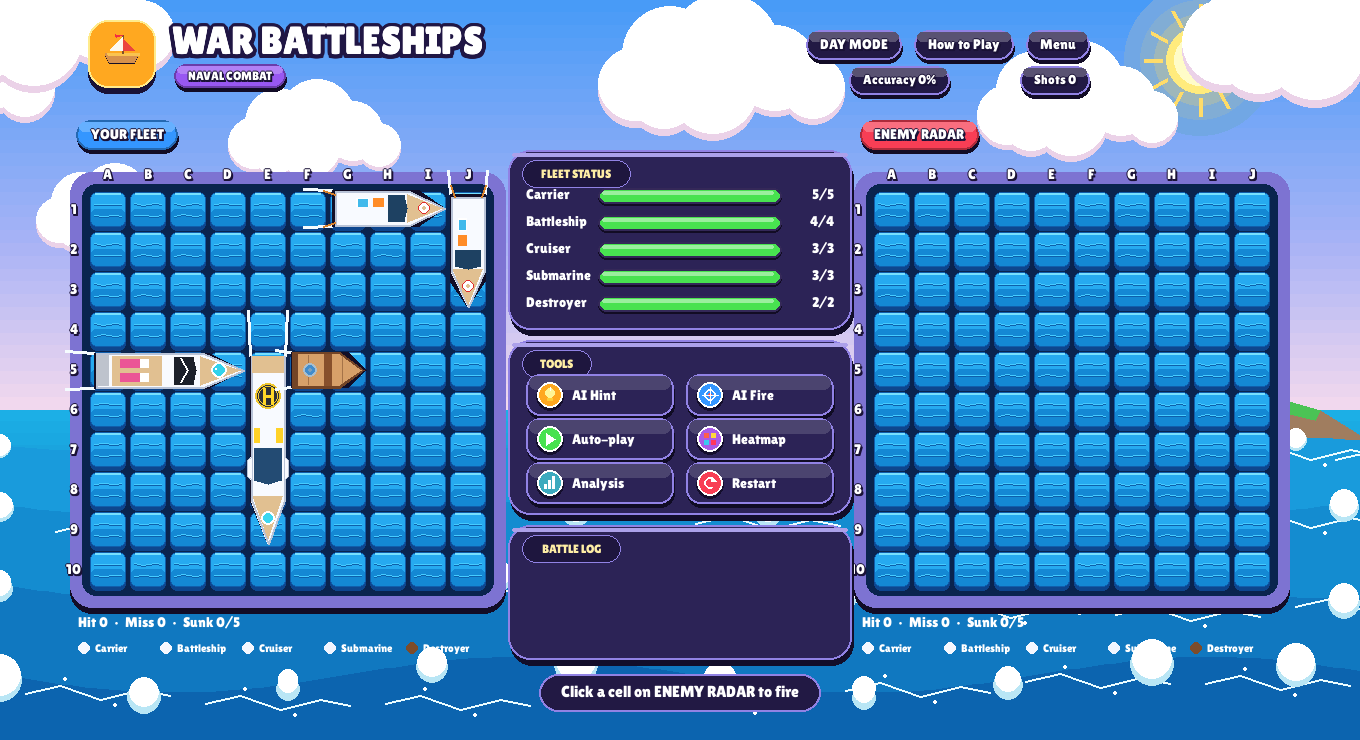
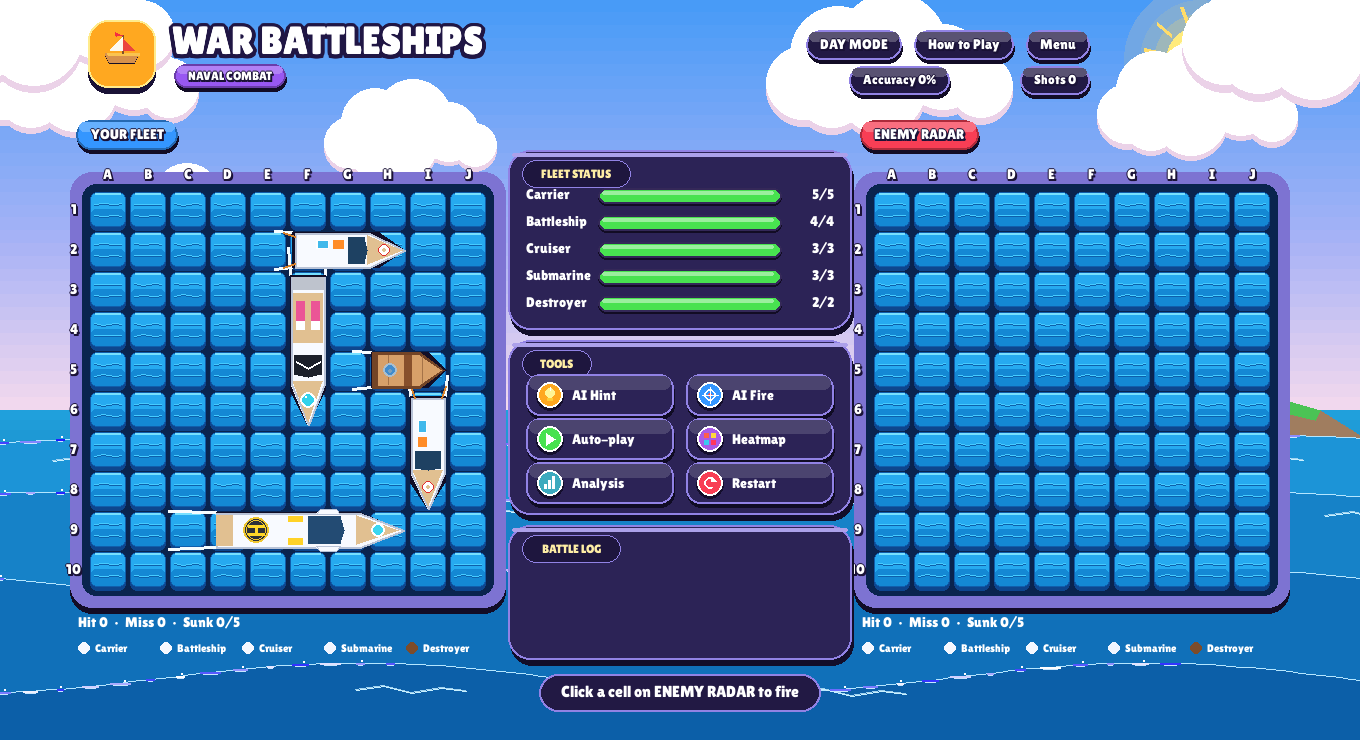
feat: realistic ocean waves - no puffy egg circles, whitecap streaks + ripple lines

diff --git a/ui/sprites.py b/ui/sprites.py
@@ -159,43 +159,56 @@ def wave_points(x0, x1, base, amp, length, speed, t, step=22):
     return pts
 
 
-def draw_puffy_wave_crest(screen, pts, t, sc=1.0, step=12):
-    """Draw cloud-like puffy white wave foam crests along wave points, matching reference image."""
-    # 1. Soft mint-aqua bottom shadow billows
-    for i in range(0, len(pts), step):
+def _draw_wave_whitecap(screen, pts, t, phase_offset=0.0, opacity_sc=1.0):
+    """Draw realistic whitecap foam streaks along a wave crest — no big circles.
+    Uses short tapered brushstroke lines and tiny spray dots."""
+    n = len(pts)
+    rng_seed = int(phase_offset * 100)
+    for i in range(0, n - 1, 3):
         px, py = pts[i]
-        r = int((13 + 4 * math.sin(i * 0.4 + t * 3)) * sc)
-        pygame.draw.circle(screen, (185, 230, 245), P(px, py + 4 * sc), r)
-    # 2. Main brilliant white foam billows
-    for i in range(0, len(pts), step):
-        px, py = pts[i]
-        r = int((12 + 4 * math.sin(i * 0.4 + t * 3)) * sc)
-        pygame.draw.circle(screen, (255, 255, 255), P(px, py), r)
-    # 3. Bright top highlight puffs
-    for i in range(0, len(pts), step * 2):
-        px, py = pts[i]
-        r = int((7 + 3 * math.sin(i * 0.8 + t * 4)) * sc)
-        pygame.draw.circle(screen, (255, 255, 255), P(px, py - 3 * sc), r)
+        # Only paint caps where wave is near its crest (derivative ~0)
+        if i + 2 < n:
+            dy_prev = pts[max(0, i-2)][1] - py
+            if dy_prev < -0.5:   # skip troughs
+                continue
+        # Foam streak length varies
+        streak = int(14 + 8 * math.sin(i * 0.6 + t * 3.1 + phase_offset))
+        alpha = int(255 * min(1.0, opacity_sc * (0.6 + 0.4 * math.sin(i * 1.3 + t * 2))))
+        col = (min(255, alpha), min(255, alpha), 255)
+        # Main horizontal foam streak
+        pygame.draw.line(screen, col,
+                         P(px - streak // 2, py),
+                         P(px + streak // 2, py), 2)
+        # Thinner trailing wisp below
+        pygame.draw.line(screen, (200, 230, 255),
+                         P(px - streak // 3, py + 2),
+                         P(px + streak // 3, py + 2), 1)
+        # Tiny spray dots
+        if i % 6 == 0:
+            sr = max(1, int(1.5 * opacity_sc))
+            pygame.draw.circle(screen, (255, 255, 255),
+                                P(px + streak // 4, py - 2), sr)
 
 
 def draw_seafoam_swirls(screen, x0, x1, y_base, t, phase=0.0):
-    """Draw curved seafoam lace ribbons across the wave surface, matching reference image."""
-    swirl_col = (235, 252, 255)
-    width = x1 - x0
-    count = max(2, int(width // 160))
-    for s_i in range(count):
-        sx = x0 + ((s_i * 180 + t * 25 + phase * 60) % max(1, width))
-        sy = y_base + math.sin(t * 2 + s_i + phase) * 12
+    """Draw subtle horizontal water ripple lines (not circles)."""
+    swirl_col = (200, 240, 255)
+    dim_col   = (160, 210, 240)
+    width = int(x1 - x0)
+    for s_i in range(3):
+        ox = (s_i * 220 + t * 28 + phase * 55) % max(1, width)
+        sx = x0 + ox
+        sy = y_base + math.sin(t * 1.8 + s_i * 1.2 + phase) * 6
         pts = [
-            P(sx, sy),
-            P(sx + 35, sy - 8),
-            P(sx + 75, sy + 6),
-            P(sx + 115, sy - 4),
-            P(sx + 145, sy + 2)
+            P(sx,       sy),
+            P(sx + 28,  sy - 4),
+            P(sx + 55,  sy + 3),
+            P(sx + 85,  sy - 2),
+            P(sx + 110, sy + 1)
         ]
-        pygame.draw.lines(screen, swirl_col, False, pts, 2)
-        pygame.draw.circle(screen, (255, 255, 255), P(sx + 40, sy - 14), 2)
-        pygame.draw.circle(screen, (255, 255, 255), P(sx + 90, sy + 12), 2)
+        pygame.draw.lines(screen, dim_col, False, pts, 1)
+        pts2 = [P(x + 1, y + 1) for x, y in pts]
+        pygame.draw.lines(screen, swirl_col, False, pts2, 1)
 
 
 def draw_adventure_sailboat(g, cx, cy, sc=1.0, t=0.0, bob=True):
@@ -289,20 +302,22 @@ def draw_adventure_sailboat(g, cx, cy, sc=1.0, t=0.0, bob=True):
 
 
 def draw_sea(g, t):
-    """Stylized cartoon ocean with dramatic volumetric puffy foam waves,
-    swirling seafoam lace, and adventure sailboat matching the user's reference image."""
+    """Realistic ocean background with multi-layer rolling waves,
+    subtle whitecap foam streaks, and deep blue-to-teal gradient."""
     screen = g.screen
 
-    # 1. Base Ocean Gradient (Cerulean horizon -> Deep Royal Ocean)
-    bands = 28
+    # 1. Deep Ocean Gradient — dark navy at bottom, lighter teal near horizon
+    bands = 32
     for i in range(bands):
         y0 = HORIZON + i * (H - HORIZON) // bands
         frac = i / bands
-        c = mix((28, 175, 230), (10, 80, 160), frac)
-        pygame.draw.rect(screen, mix(c, (14, 28, 65), g.tod * 0.7),
-                         pygame.Rect(0, y0, W, (H - HORIZON) // bands + 2))
+        # Day: teal-blue gradient / Night: deep navy
+        c_day  = mix((32, 160, 220), (8, 48, 110), frac)
+        c_night = mix((10, 30, 72), (4, 12, 38), frac)
+        c = mix(c_day, c_night, g.tod * 0.85)
+        pygame.draw.rect(screen, c, pygame.Rect(0, y0, W, (H - HORIZON) // bands + 2))
 
-    # 2. Distant Tropical Cliff & Fairytale Tower on Right Horizon (matching reference!)
+    # 2. Distant Tropical Cliff & Fairytale Tower
     cliff_x = W - 220
     cliff_y = HORIZON + 15
     cliff_pts = [
@@ -310,8 +325,9 @@ def draw_sea(g, t):
         P(cliff_x + 110, cliff_y - 35), P(cliff_x + 180, cliff_y - 15),
         P(W, cliff_y + 10), P(W, cliff_y + 90), P(cliff_x, cliff_y + 90)
     ]
-    pygame.draw.polygon(screen, (160, 125, 95), cliff_pts)
-    pygame.draw.polygon(screen, (75, 195, 85), [
+    cliff_col = mix((160, 125, 95), (60, 50, 42), g.tod * 0.5)
+    pygame.draw.polygon(screen, cliff_col, cliff_pts)
+    pygame.draw.polygon(screen, mix((75, 195, 85), (25, 60, 35), g.tod * 0.6), [
         P(cliff_x + 35, cliff_y - 20), P(cliff_x + 110, cliff_y - 35),
         P(cliff_x + 180, cliff_y - 15), P(cliff_x + 175, cliff_y - 5),
         P(cliff_x + 105, cliff_y - 22), P(cliff_x + 40, cliff_y - 12)
@@ -332,50 +348,72 @@ def draw_sea(g, t):
             P(fx - f["sz"] * 0.7, fy), P(fx, fy + f["sz"] * 0.45)
         ])
 
-    # 4. Multi-Layer Rolling Oceanic Waves with Volumetric Puffy Foam Crests
+    # 4. Multi-layer realistic rolling waves — no big foam circles
     wave_layers = [
-        (HORIZON + 35, 7.0, 75, 1.2, (25, 155, 220), 0.7, 18),
-        (HORIZON + 95, 10.0, 85, 1.4, (20, 140, 208), 0.9, 16),
-        (HORIZON + 175, 14.0, 95, 1.6, (16, 120, 192), 1.15, 14),
-        (HORIZON + 265, 18.0, 110, 1.9, (12, 100, 175), 1.35, 12),
+        # (base_y, amp, period, speed, wave_col, whitecap_opacity, step)
+        (HORIZON + 30,  5.0,  85, 1.1,  (28, 148, 215),  0.55, 15),
+        (HORIZON + 90,  8.0,  95, 1.3,  (22, 130, 200),  0.70, 14),
+        (HORIZON + 170, 11.0, 108, 1.55, (16, 112, 185),  0.85, 13),
+        (HORIZON + 268, 15.0, 125, 1.80, (12, 95,  168),  1.00, 12),
     ]
 
-    for base_y, amp, period, speed, wave_col, foam_sc, step in wave_layers:
-        pts = wave_points(0, W, base_y, amp, period, speed, t, step=12)
+    for base_y, amp, period, speed, wave_col, foam_op, step in wave_layers:
+        wc = mix(wave_col, g.col("sea2"), g.tod * 0.65)
+        pts = wave_points(0, W, base_y, amp, period, speed, t, step=10)
         poly = pts + [(W, H), (0, H)]
-        pygame.draw.polygon(screen, mix(wave_col, g.col("sea2"), g.tod * 0.7), [P(x, y) for x, y in poly])
-        draw_seafoam_swirls(screen, 0, W, base_y + 18, t, phase=base_y * 0.05)
-        draw_puffy_wave_crest(screen, pts, t + base_y * 0.1, sc=foam_sc, step=step)
+        pygame.draw.polygon(screen, wc, [P(x, y) for x, y in poly])
+
+        # Subtle horizontal shimmer line along wave crest
+        shimmer = mix((180, 230, 255), (80, 140, 200), g.tod * 0.7)
+        pygame.draw.lines(screen, shimmer, False, [P(x, y) for x, y in pts], 1)
+
+        # Draw seafoam swirls (subtle ribbon lines, NOT circles)
+        draw_seafoam_swirls(screen, 0, W, base_y + 15, t, phase=base_y * 0.04)
+
+        # Realistic whitecap streaks along crest
+        _draw_wave_whitecap(screen, pts, t, phase_offset=base_y * 0.03, opacity_sc=foam_op)
 
 
 def draw_sea_surface(g, rect, t, phase=0.0):
-    """Playful cartoon sea surface inside game board: tropical turquoise depth + puffy waves + seafoam swirls."""
+    """Realistic ocean surface inside game board — deep gradient + ripple lines, no puffy circles."""
     x0, y0, w, h = rect
     screen = g.screen
-    rows = 18
+
+    # Gradient — lighter teal near top, deeper navy at bottom
+    rows = 20
     for i in range(rows):
         frac = i / (rows - 1)
-        c = mix((42, 195, 238), (14, 90, 168), frac)
-        pygame.draw.rect(screen, mix(c, g.col("deep"), g.tod * 0.6),
+        c_day  = mix((38, 180, 240), (10, 60, 140), frac)
+        c_night = mix((10, 35, 85), (4, 14, 42), frac)
+        c = mix(c_day, c_night, g.tod * 0.75)
+        pygame.draw.rect(screen, c,
                          pygame.Rect(int(x0), int(y0 + i * h / rows), int(w), int(h / rows) + 1))
 
-    # Swirling seafoam lace ribbons inside board
-    draw_seafoam_swirls(screen, x0, x0 + w, y0 + h * 0.35, t, phase=phase)
-    draw_seafoam_swirls(screen, x0, x0 + w, y0 + h * 0.70, t, phase=phase + 1.5)
-
-    # Puffy wave crest lines inside board
+    # 3-4 horizontal rolling wave ripple lines
     for i in range(4):
-        base = y0 + (i + 0.6) * h / 4.2
-        pts = wave_points(x0, x0 + w, base, 3.2, 32 + i * 6, 1.6 + i * 0.15, t + phase + i, step=10)
-        pts = [(x, min(max(y, y0 + 2), y0 + h - 2)) for x, y in pts]
-        draw_puffy_wave_crest(screen, pts, t + i, sc=0.45, step=10)
+        base = y0 + (i + 0.7) * h / 4.5
+        pts_raw = wave_points(x0, x0 + w, base, 2.5, 30 + i * 8, 1.4 + i * 0.18, t + phase + i * 0.9, step=8)
+        pts_clipped = [(x, min(max(y, y0 + 2), y0 + h - 2)) for x, y in pts_raw]
 
-    # Sparkles
-    for i in range(12):
-        sx = x0 + (i * 49 + t * 20 * (1 + i % 3)) % w
-        sy = y0 + (i * 35) % h
-        if math.sin(t * 3.5 + i) > 0.4:
-            pygame.draw.circle(screen, (255, 255, 255), P(sx, sy), 2)
+        # Dark shadow line under each ripple
+        shd = mix((10, 50, 110), (5, 20, 55), g.tod * 0.5)
+        pygame.draw.lines(screen, shd, False,
+                          [(int(x), int(y) + 1) for x, y in pts_clipped], 1)
+        # Bright shimmer line on crest
+        shi = mix((130, 220, 255), (55, 130, 195), g.tod * 0.6)
+        pygame.draw.lines(screen, shi, False,
+                          [(int(x), int(y)) for x, y in pts_clipped], 1)
+
+        # Whitecap streaks — short tapered brushstrokes on every other wave
+        if i % 2 == 0:
+            _draw_wave_whitecap(screen, pts_clipped, t, phase_offset=phase + i * 0.7, opacity_sc=0.55)
+
+    # Subtle sparkle glints (tiny 1px dots, not big circles)
+    for k in range(18):
+        sx = int(x0 + (k * 43 + t * 22 * (1 + k % 3)) % w)
+        sy = int(y0 + (k * 31) % h)
+        if math.sin(t * 4.0 + k) > 0.65:
+            pygame.draw.circle(screen, (220, 248, 255), (sx, sy), 1)
 
 
 def draw_frame(g, rect):
